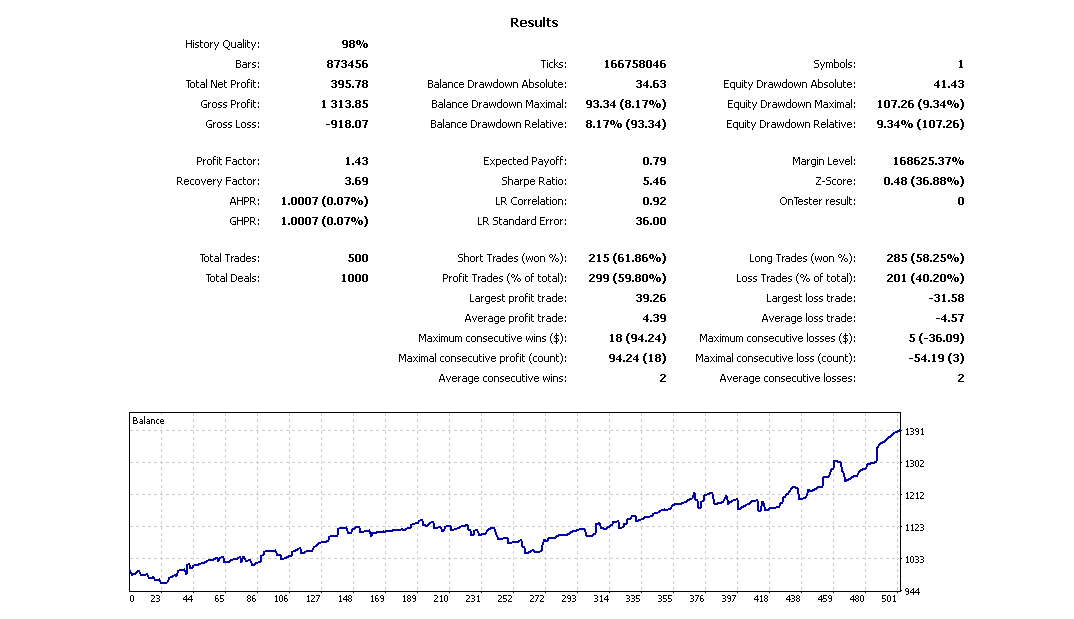
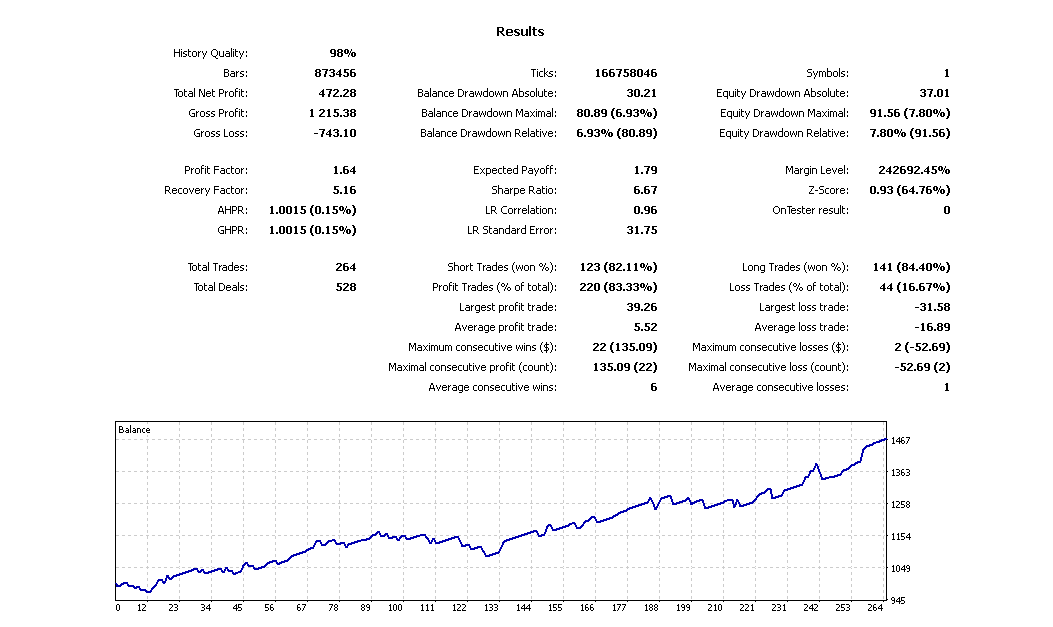
Trigger GitHub Pages rebuild

diff --git a/index.html b/index.html
@@ -477,19 +477,27 @@
                     <div class="backtest-settings">
                         <div class="setting-item">
                             <span>Profit Factor</span>
-                            <strong>1.43</strong>
+                            <strong>1.64</strong>
                         </div>
                         <div class="setting-item">
                             <span>Max Drawdown</span>
-                            <strong class="negative">9.34%</strong>
+                            <strong class="negative">30.81%</strong>
                         </div>
                         <div class="setting-item">
                             <span>Win Rate</span>
-                            <strong class="positive">59.80%</strong>
+                            <strong class="positive">83.33%</strong>
                         </div>
                         <div class="setting-item">
                             <span>Growth</span>
-                            <strong class="positive">472.26</strong>
+                            <strong class="positive">472,28%</strong>
+                        </div>
+                        <div class="setting-item">
+                            <span>Balance </span>
+                            <strong class="positive">$100</strong>
+                        </div>
+                        <div class="setting-item">
+                            <span>Total Trades </span>
+                            <strong class="positive">264</strong>
                         </div>
                     </div>
                 </div>